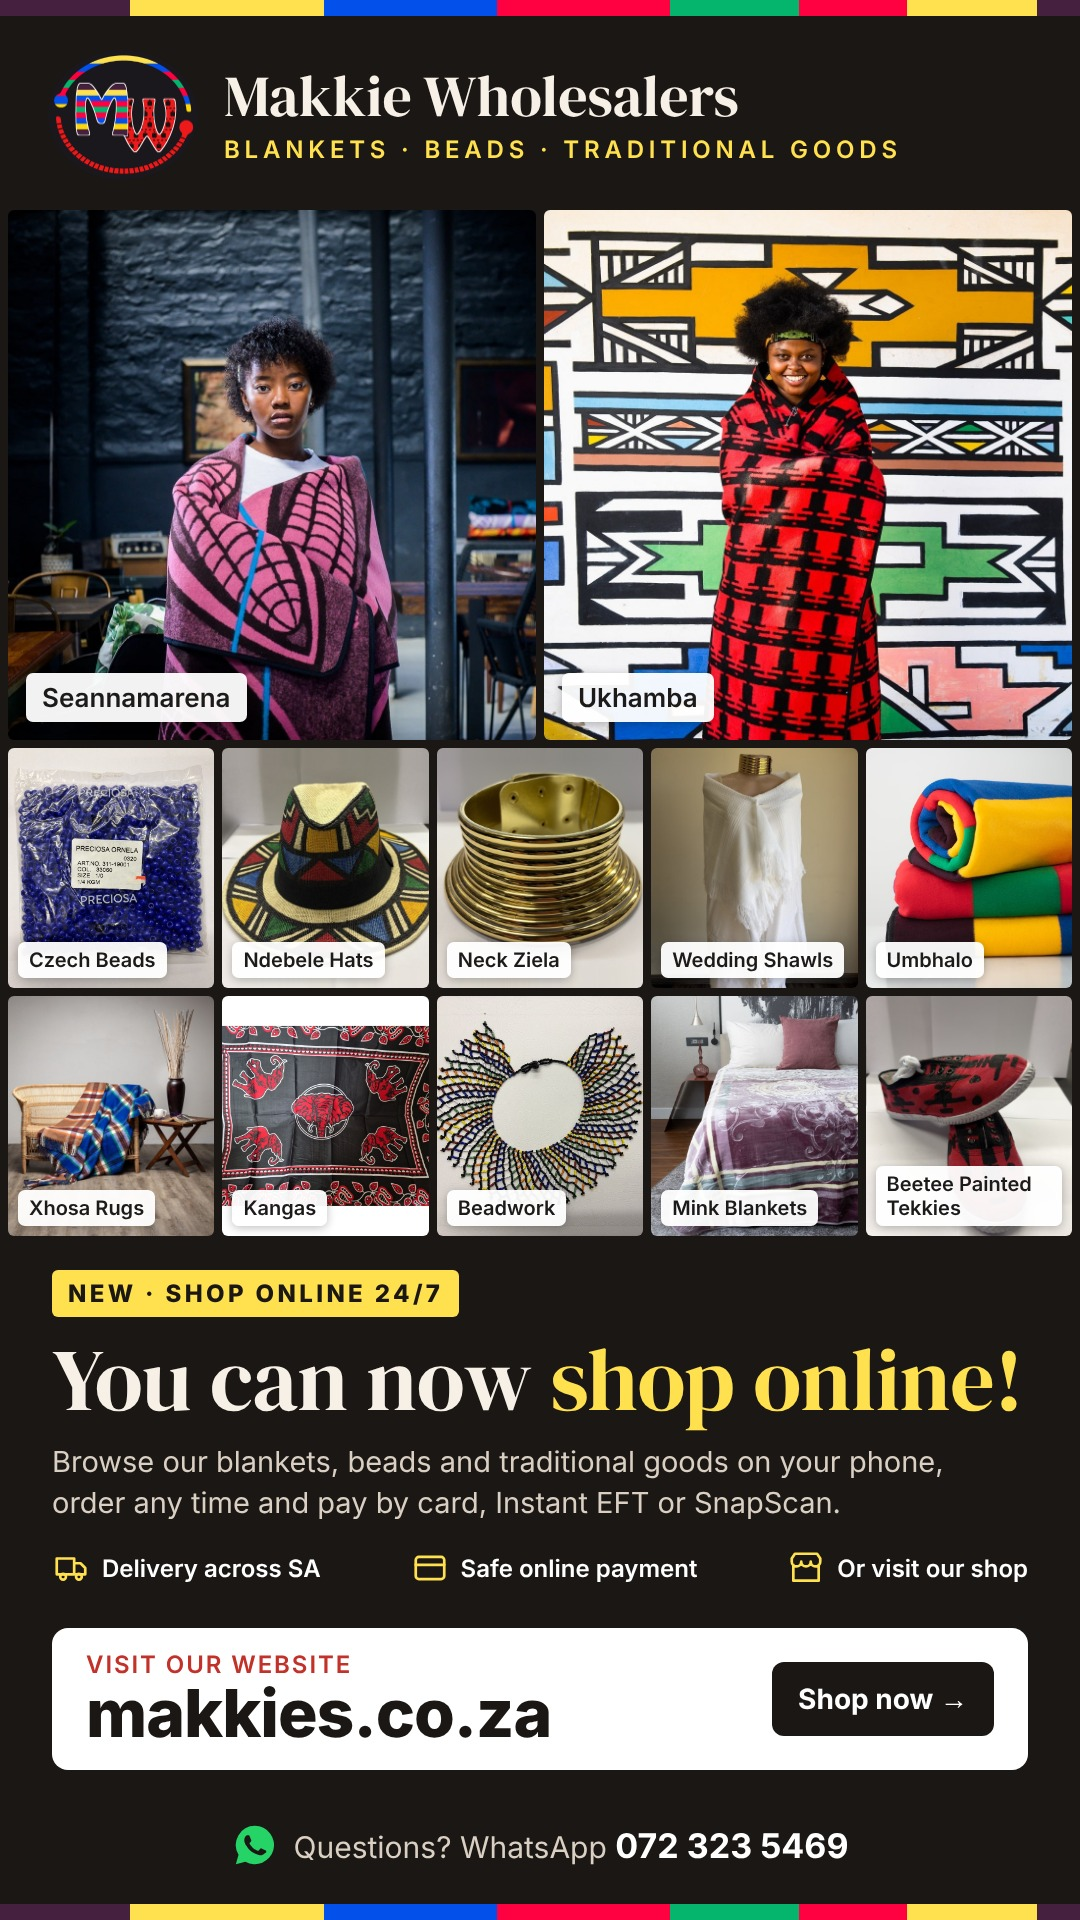
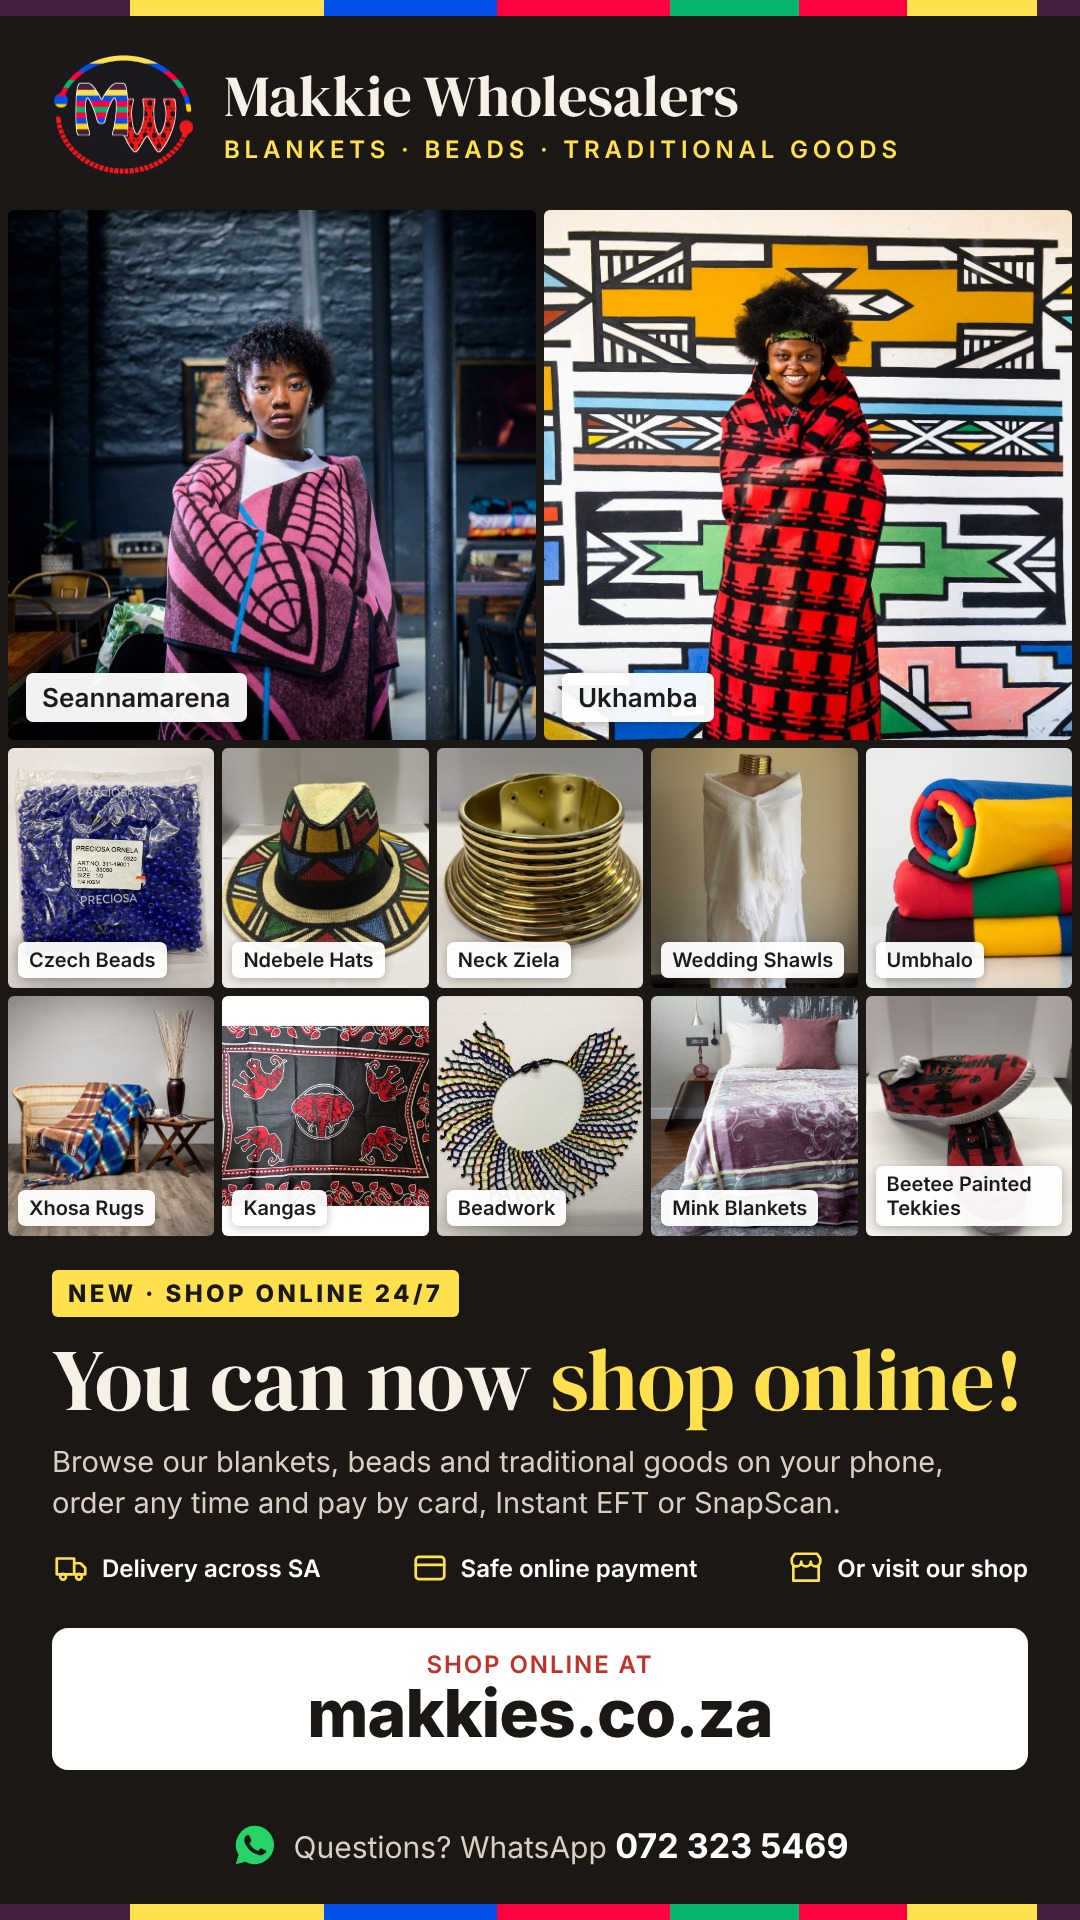
Welcome ad: remove Shop now button
Claude-Session: https://claude.ai/code/session_01FrAdmZhbnvV2Pi8Ea2YxmY

Changed region(s): [[0.0611, 0.8438, 0.9472, 0.9062]]

diff --git a/marketing/whatsapp-ads/00-welcome.html b/marketing/whatsapp-ads/00-welcome.html
@@ -154,7 +154,7 @@ h1{font-family:'DM Serif Display',Georgia,serif;font-weight:400;font-size:88px;l
 h1 em{font-style:normal;color:#FFE14F}
 p.sub{font-size:29px;line-height:1.42;color:#d9cfc2;margin-top:16px;max-width:960px}
 .pts{display:flex;justify-content:space-between;padding:26px 52px 0;font-size:24px;color:#d9cfc2}.pts div{display:flex;align-items:center;gap:12px}.pts b{color:#fff;font-weight:600}
-.shop{position:absolute;left:52px;right:52px;bottom:150px;background:#fff;color:#1b1714;border-radius:16px;display:flex;align-items:center;justify-content:space-between;padding:22px 34px}
+.shop{position:absolute;left:52px;right:52px;bottom:150px;background:#fff;color:#1b1714;border-radius:16px;display:flex;align-items:center;justify-content:center;text-align:center;padding:22px 34px}
 .shop small{display:block;font-size:24px;font-weight:600;color:#C3312B;letter-spacing:.08em;text-transform:uppercase}.shop b{display:block;font-size:66px;font-weight:800;letter-spacing:-1px;line-height:1.05}
 .shop .go{background:#1b1714;color:#fff;font-size:28px;font-weight:700;border-radius:12px;padding:20px 26px;white-space:nowrap}
 .cta{position:absolute;left:52px;right:52px;bottom:52px;display:flex;align-items:center;justify-content:center;gap:16px;font-size:30px;color:#d9cfc2}.cta b{color:#fff;font-size:34px}
@@ -164,6 +164,6 @@ p.sub{font-size:29px;line-height:1.42;color:#d9cfc2;margin-top:16px;max-width:96
 <div class="txt"><span class="eb">New · Shop online 24/7</span><h1>You can now <em>shop online!</em></h1>
 <p class="sub">Browse our blankets, beads and traditional goods on your phone, order any time and pay by card, Instant EFT or SnapScan.</p></div>
 <div class="pts"><div><svg width="38" height="38" viewBox="0 0 24 24" fill="none" stroke="#FFE14F" stroke-width="1.7" stroke-linecap="round" stroke-linejoin="round"><path d="M3 6h11v10H3zM14 9h4l3 3v4h-7"/><circle cx="7" cy="17.5" r="1.8"/><circle cx="17" cy="17.5" r="1.8"/></svg><b>Delivery across SA</b></div><div><svg width="38" height="38" viewBox="0 0 24 24" fill="none" stroke="#FFE14F" stroke-width="1.7" stroke-linecap="round" stroke-linejoin="round"><rect x="3" y="5" width="18" height="14" rx="2"/><path d="M3 10h18"/></svg><b>Safe online payment</b></div><div><svg width="38" height="38" viewBox="0 0 24 24" fill="none" stroke="#FFE14F" stroke-width="1.7" stroke-linecap="round" stroke-linejoin="round"><path d="M4 10v10h16V10M3 6l2-3h14l2 3v2a3 3 0 0 1-6 0 3 3 0 0 1-6 0 3 3 0 0 1-6 0z"/></svg><b>Or visit our shop</b></div></div>
-<div class="shop"><div><small>Visit our website</small><b>makkies.co.za</b></div><span class="go">Shop now →</span></div>
+<div class="shop"><div><small>Shop online at</small><b>makkies.co.za</b></div></div>
 <div class="cta"><svg width="46" height="46" viewBox="0 0 24 24" fill="#25D366"><path d="M12 2a10 10 0 0 0-8.6 15.1L2 22l5-1.3A10 10 0 1 0 12 2zm5.3 14.1c-.2.6-1.3 1.2-1.8 1.2-.5.1-1 .2-3.3-.7-2.8-1.1-4.6-4-4.7-4.2-.1-.2-1.1-1.5-1.1-2.9s.7-2 1-2.3c.2-.3.5-.3.7-.3h.5c.2 0 .4 0 .6.5l.8 2c.1.2.1.4 0 .5l-.3.5-.4.4c-.1.1-.3.3-.1.6.2.3.8 1.3 1.7 2.1 1.1 1 2.1 1.3 2.4 1.5.3.1.5.1.6-.1l.9-1c.2-.3.4-.2.6-.1l1.9.9c.3.1.5.2.5.3.1.2.1.7-.1 1.2z"/></svg><span>Questions? WhatsApp <b>072 323 5469</b></span></div>
 <div class="bot stripe"></div></body></html>

diff --git a/marketing/whatsapp-ads/welcome.py b/marketing/whatsapp-ads/welcome.py
@@ -26,7 +26,7 @@ h1{font-family:'DM Serif Display',Georgia,serif;font-weight:400;font-size:88px;l
 h1 em{font-style:normal;color:#FFE14F}
 p.sub{font-size:29px;line-height:1.42;color:#d9cfc2;margin-top:16px;max-width:960px}
 .pts{display:flex;justify-content:space-between;padding:26px 52px 0;font-size:24px;color:#d9cfc2}.pts div{display:flex;align-items:center;gap:12px}.pts b{color:#fff;font-weight:600}
-.shop{position:absolute;left:52px;right:52px;bottom:150px;background:#fff;color:#1b1714;border-radius:16px;display:flex;align-items:center;justify-content:space-between;padding:22px 34px}
+.shop{position:absolute;left:52px;right:52px;bottom:150px;background:#fff;color:#1b1714;border-radius:16px;display:flex;align-items:center;justify-content:center;text-align:center;padding:22px 34px}
 .shop small{display:block;font-size:24px;font-weight:600;color:#C3312B;letter-spacing:.08em;text-transform:uppercase}.shop b{display:block;font-size:66px;font-weight:800;letter-spacing:-1px;line-height:1.05}
 .shop .go{background:#1b1714;color:#fff;font-size:28px;font-weight:700;border-radius:12px;padding:20px 26px;white-space:nowrap}
 .cta{position:absolute;left:52px;right:52px;bottom:52px;display:flex;align-items:center;justify-content:center;gap:16px;font-size:30px;color:#d9cfc2}.cta b{color:#fff;font-size:34px}
@@ -39,7 +39,7 @@ html = f"""<!doctype html><html><head><meta charset="utf-8"><style>{FONTS}{CSS}<
 <div class="txt"><span class="eb">New · Shop online 24/7</span><h1>You can now <em>shop online!</em></h1>
 <p class="sub">Browse our blankets, beads and traditional goods on your phone, order any time and pay by card, Instant EFT or SnapScan.</p></div>
 <div class="pts"><div>{TRUCK}<b>Delivery across SA</b></div><div>{CARD}<b>Safe online payment</b></div><div>{SHOP}<b>Or visit our shop</b></div></div>
-<div class="shop"><div><small>Visit our website</small><b>makkies.co.za</b></div><span class="go">Shop now →</span></div>
+<div class="shop"><div><small>Shop online at</small><b>makkies.co.za</b></div></div>
 <div class="cta">{WA}<span>Questions? WhatsApp <b>072 323 5469</b></span></div>
 <div class="bot stripe"></div></body></html>"""
 open(os.path.join(D, '00-welcome.html'), 'w').write(html)
